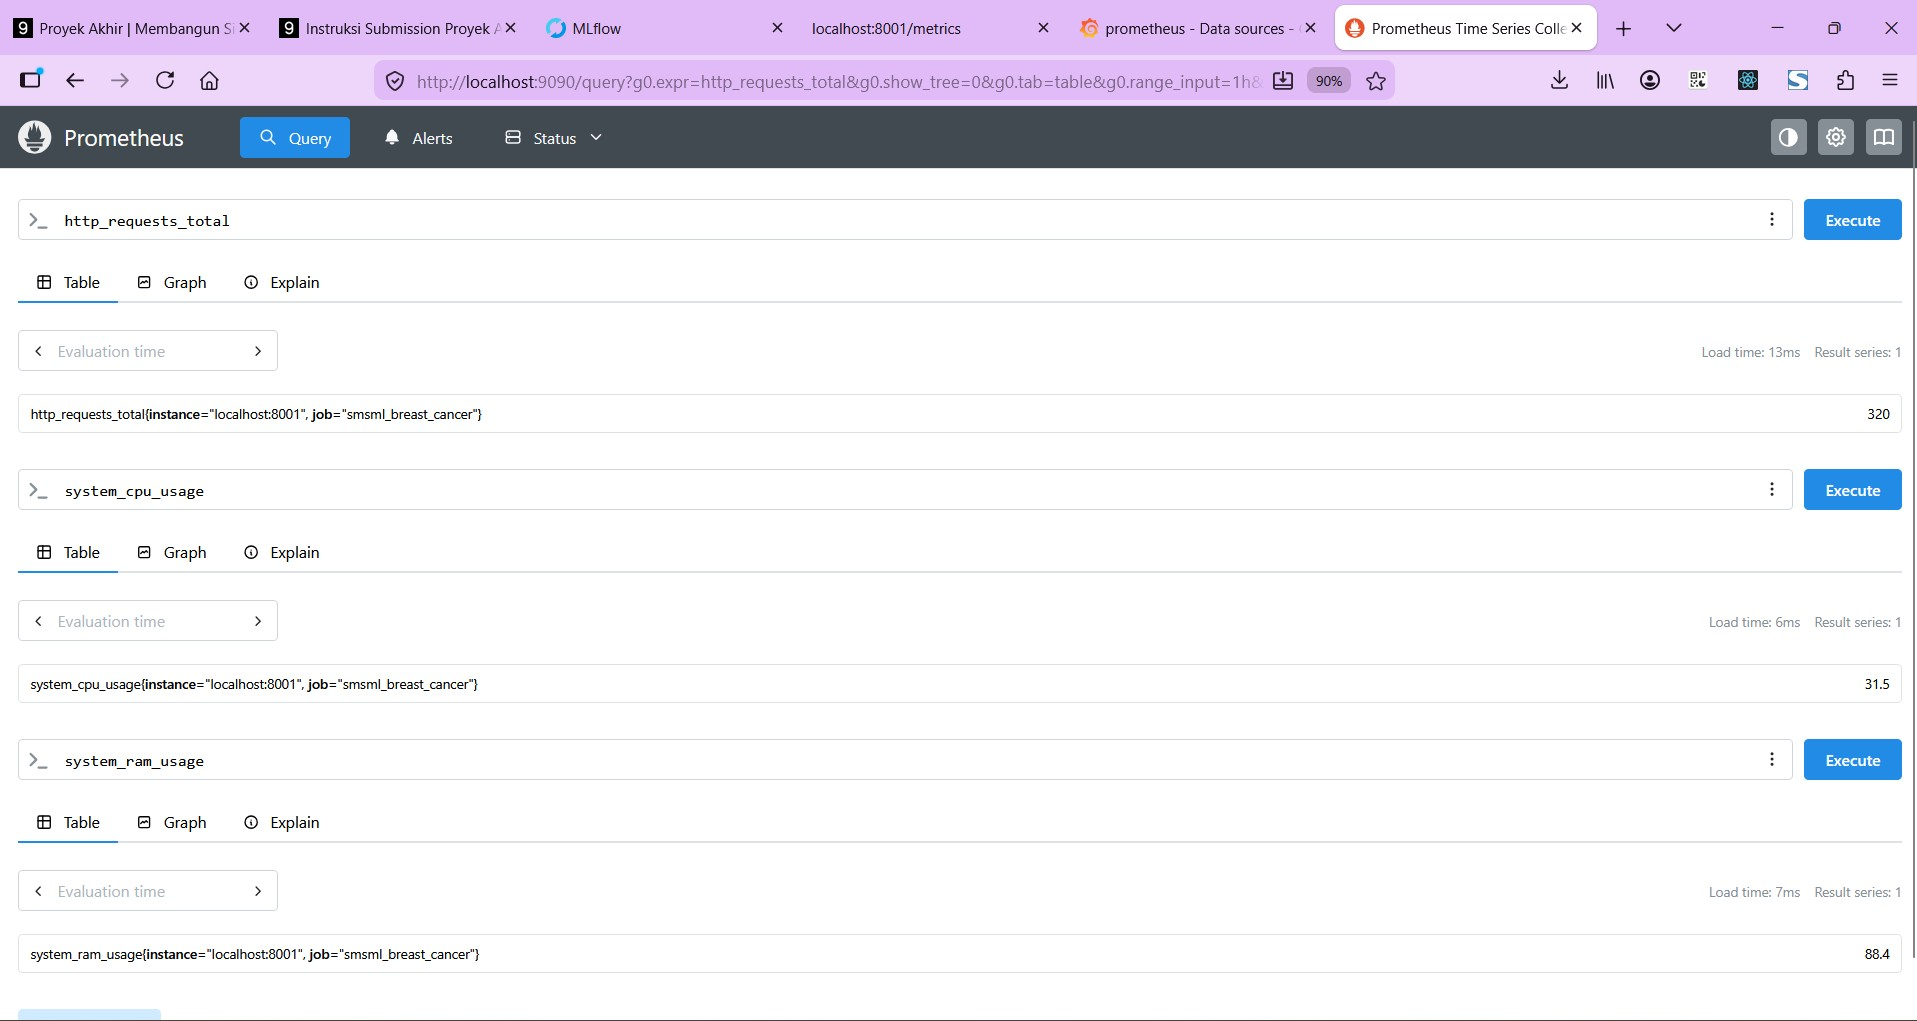
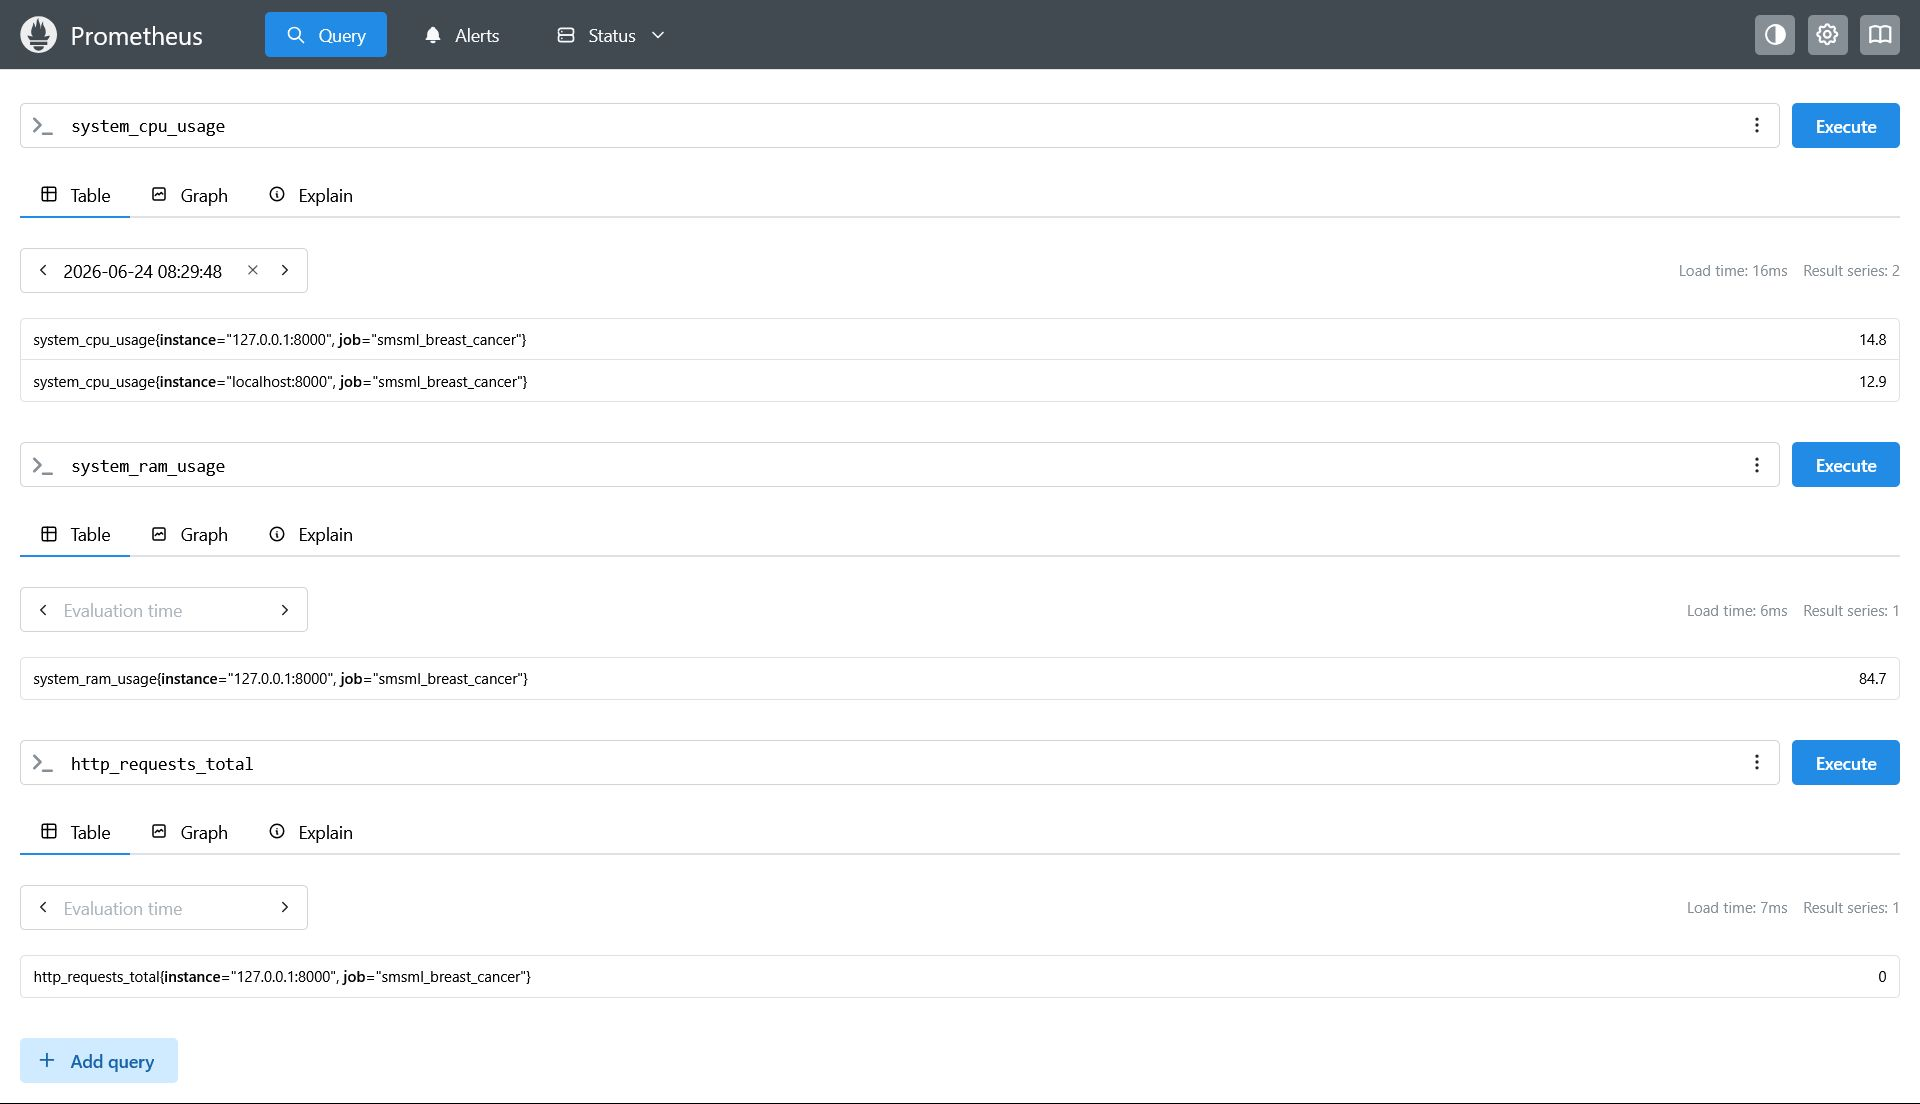
fix workflow ci mlflow project

diff --git a/Monitoring dan Logging/3.prometheus_exporter.py b/Monitoring dan Logging/3.prometheus_exporter.py
@@ -6,53 +6,30 @@ from prometheus_client import Counter, Histogram, Gauge, generate_latest, CONTEN
 
 app = Flask(__name__)
 
-REQUEST_COUNT = Counter(
-    "http_requests_total",
-    "Total HTTP Requests"
-)
-
-PREDICTION_COUNT = Counter(
-    "prediction_requests_total",
-    "Total prediction requests"
-)
-
-REQUEST_LATENCY = Histogram(
-    "prediction_latency_seconds",
-    "Prediction latency seconds"
-)
-
-LAST_PREDICTION = Gauge(
-    "last_prediction_value",
-    "Last prediction result"
-)
-
-CPU_USAGE = Gauge(
-    "system_cpu_usage",
-    "CPU Usage Percentage"
-)
-
-RAM_USAGE = Gauge(
-    "system_ram_usage",
-    "RAM Usage Percentage"
-)
+HTTP_REQUESTS_TOTAL = Counter("http_requests_total", "Total HTTP Requests")
+PREDICTION_REQUESTS_TOTAL = Counter("prediction_requests_total", "Total Prediction Requests")
+PREDICTION_LATENCY = Histogram("prediction_latency_seconds", "Prediction Latency Seconds")
+LAST_PREDICTION_VALUE = Gauge("last_prediction_value", "Last Prediction Result")
+SYSTEM_CPU_USAGE = Gauge("system_cpu_usage", "System CPU Usage Percentage")
+SYSTEM_RAM_USAGE = Gauge("system_ram_usage", "System RAM Usage Percentage")
 
 
 @app.route("/", methods=["GET"])
 def home():
-    REQUEST_COUNT.inc()
+    HTTP_REQUESTS_TOTAL.inc()
     return jsonify({"status": "running"})
 
 
 @app.route("/health", methods=["GET"])
 def health():
-    REQUEST_COUNT.inc()
+    HTTP_REQUESTS_TOTAL.inc()
     return jsonify({"status": "healthy"})
 
 
 @app.route("/metrics", methods=["GET"])
 def metrics():
-    CPU_USAGE.set(psutil.cpu_percent(interval=1))
-    RAM_USAGE.set(psutil.virtual_memory().percent)
+    SYSTEM_CPU_USAGE.set(psutil.cpu_percent(interval=1))
+    SYSTEM_RAM_USAGE.set(psutil.virtual_memory().percent)
     return Response(generate_latest(), mimetype=CONTENT_TYPE_LATEST)
 
 
@@ -60,25 +37,21 @@ def metrics():
 def predict():
     start_time = time.time()
 
-    REQUEST_COUNT.inc()
-    PREDICTION_COUNT.inc()
+    HTTP_REQUESTS_TOTAL.inc()
+    PREDICTION_REQUESTS_TOTAL.inc()
 
     api_url = "http://127.0.0.1:5005/invocations"
     data = request.get_json()
 
     try:
         response = requests.post(api_url, json=data)
-        duration = time.time() - start_time
-
-        REQUEST_LATENCY.observe(duration)
+        latency = time.time() - start_time
+        PREDICTION_LATENCY.observe(latency)
 
         result = response.json()
 
-        try:
-            prediction = result["predictions"][0]
-            LAST_PREDICTION.set(float(prediction))
-        except Exception:
-            LAST_PREDICTION.set(0)
+        prediction = result["predictions"][0]
+        LAST_PREDICTION_VALUE.set(float(prediction))
 
         return jsonify(result)
 